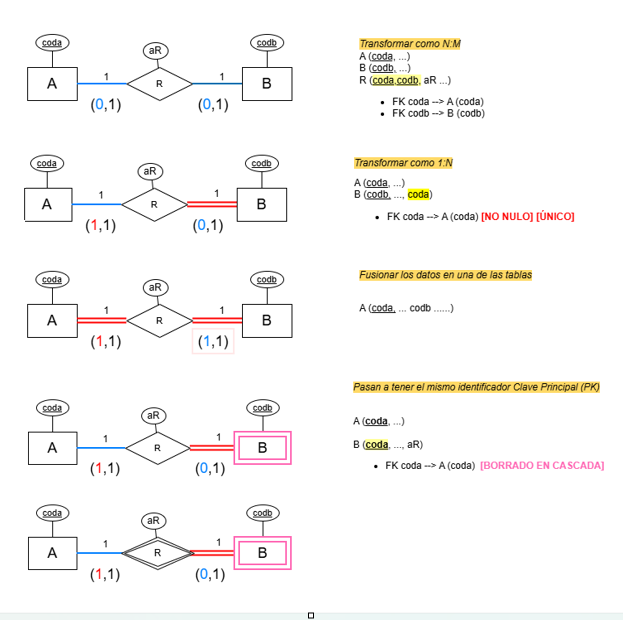
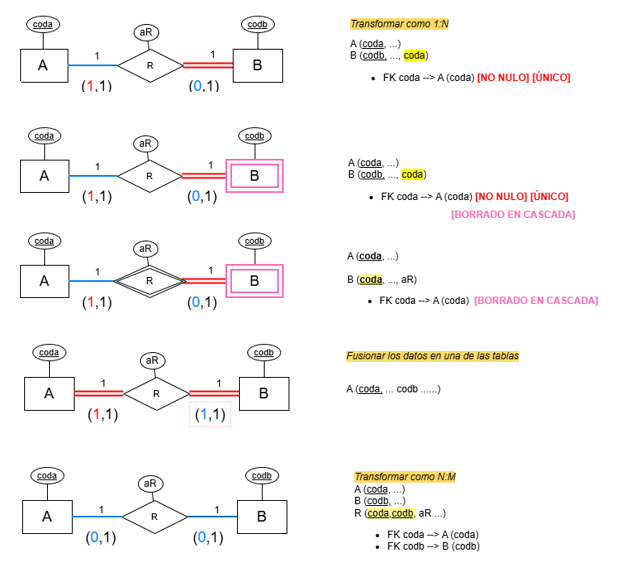
resumen

diff --git a/docs/Model_Relacional/3_transformacion_del_m_er_al_m_relacional.md b/docs/Model_Relacional/3_transformacion_del_m_er_al_m_relacional.md
@@ -339,7 +339,7 @@ En el ejemplo:
 ## 3.6 Resumen de dependencias
 
 === "1:N"
-    ![alt text](image-62.png)
+    ![alt text](image-62.png){width=800}
 === "1:1"
     ![alt text](image-65.png){width=800}
 
